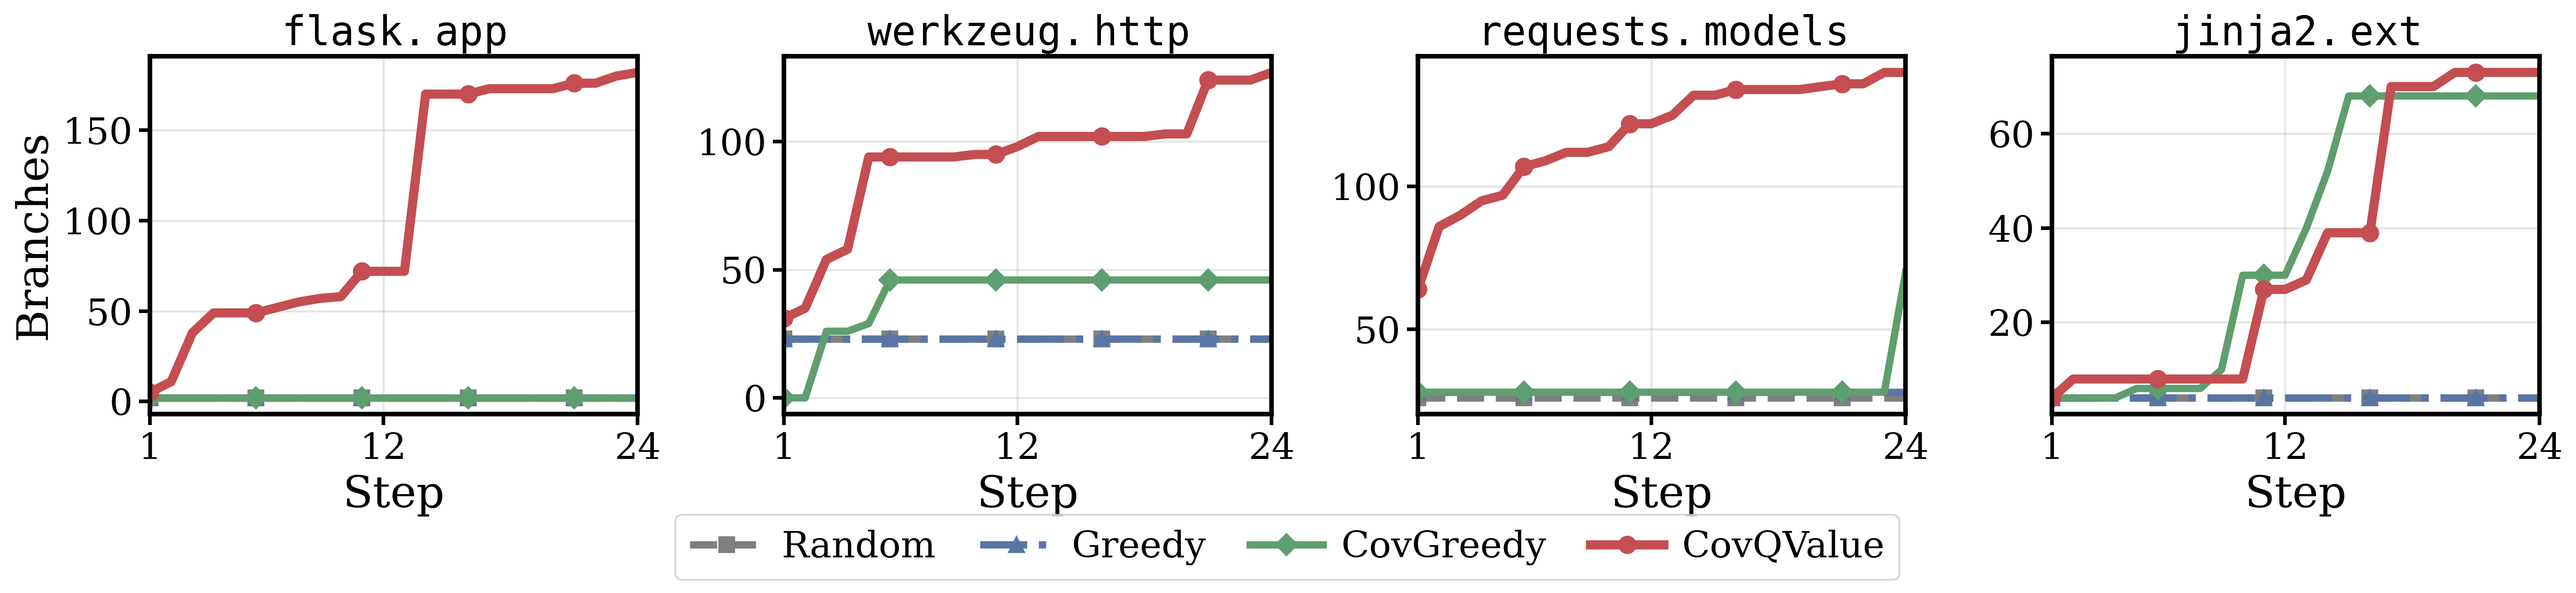
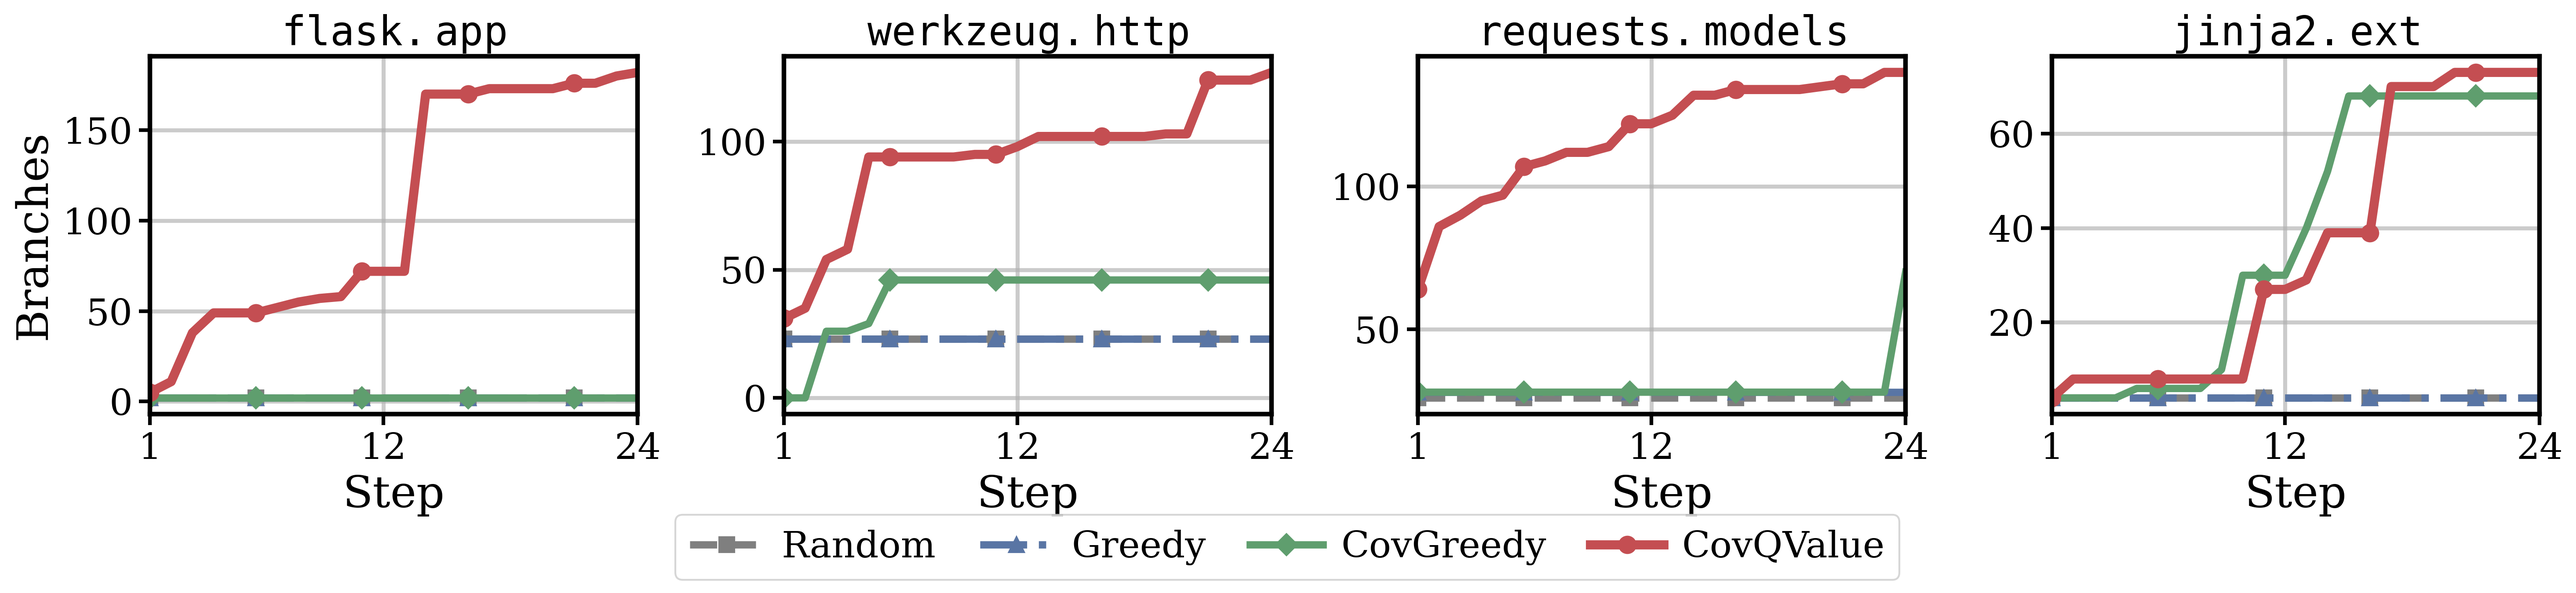
Increase grid visibility in case study figure

diff --git a/plots/paper_case_studies.py b/plots/paper_case_studies.py
@@ -59,7 +59,8 @@ COMPACT_RC = {
     "xtick.major.size": 6,
     "ytick.major.size": 6,
     "lines.linewidth": 4.0,
-    "grid.linewidth": 1.2,
+    "grid.linewidth": 2.2,
+    "grid.alpha": 0.65,
 }
 
 MODULES = [
@@ -89,7 +90,7 @@ def main():
                         label=LABELS[strat],
                         **COMPACT_STYLES[strat])
             ax.set_title(title)
-            ax.grid(True, alpha=0.3)
+            ax.grid(True)
             ax.set_xlim(1, 24)
             ax.set_xticks([1, 12, 24])
             ax.set_xlabel("Step")
